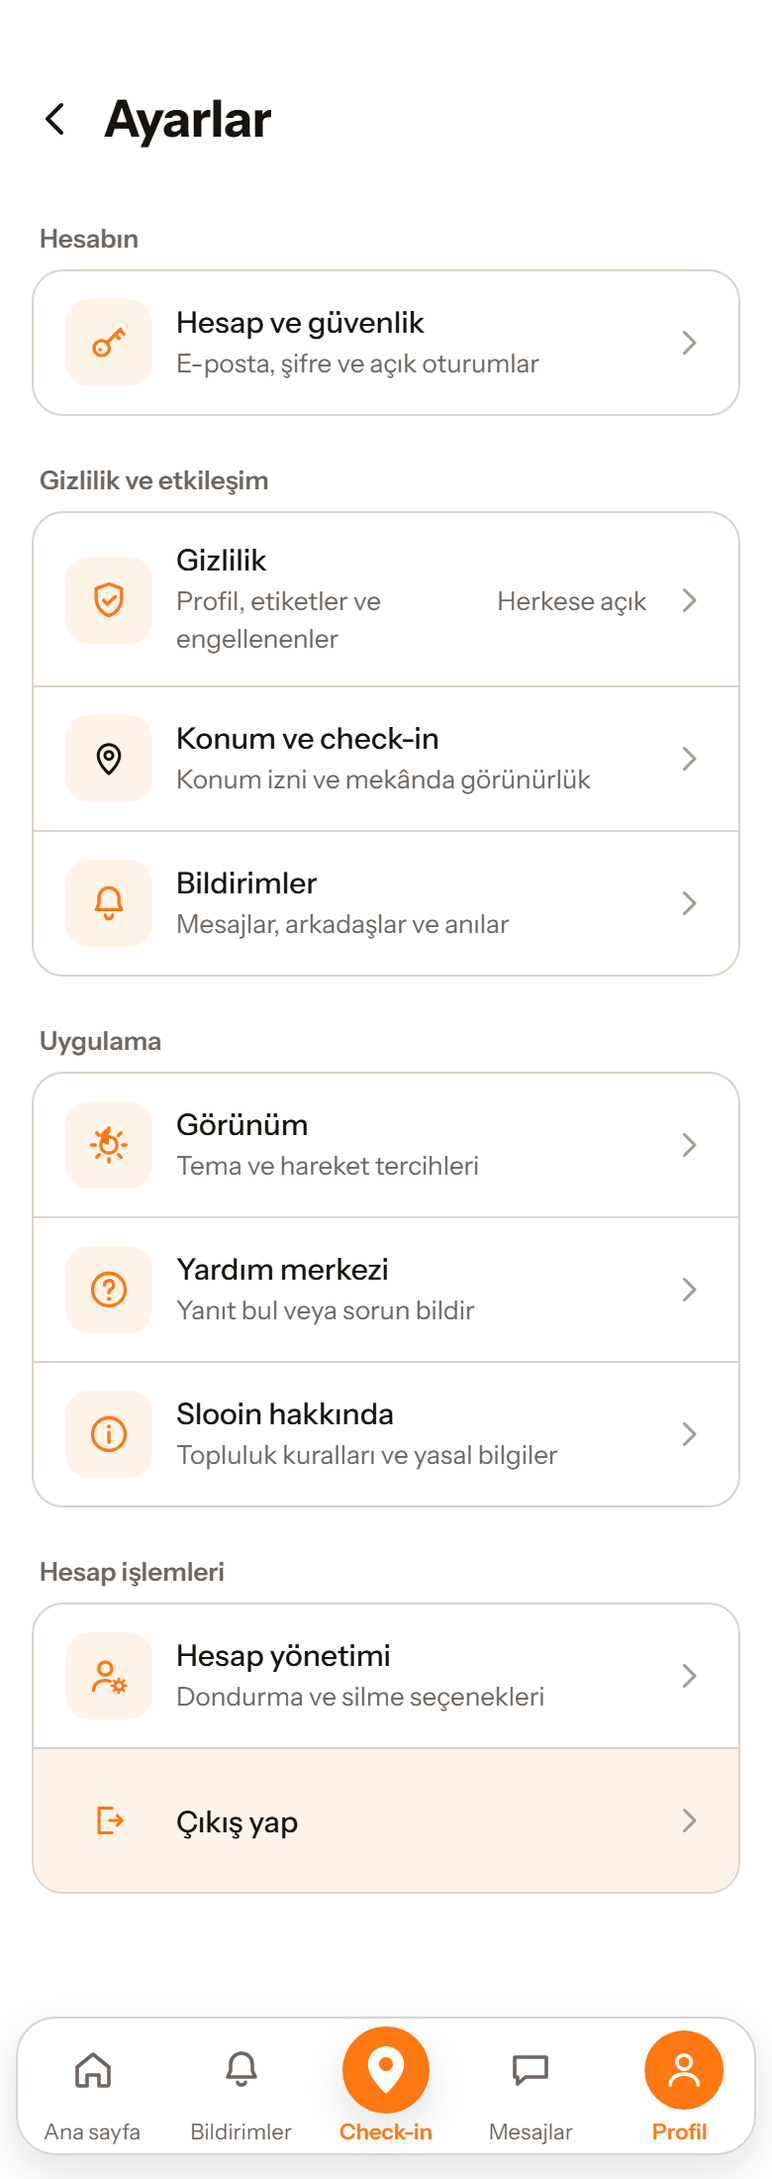
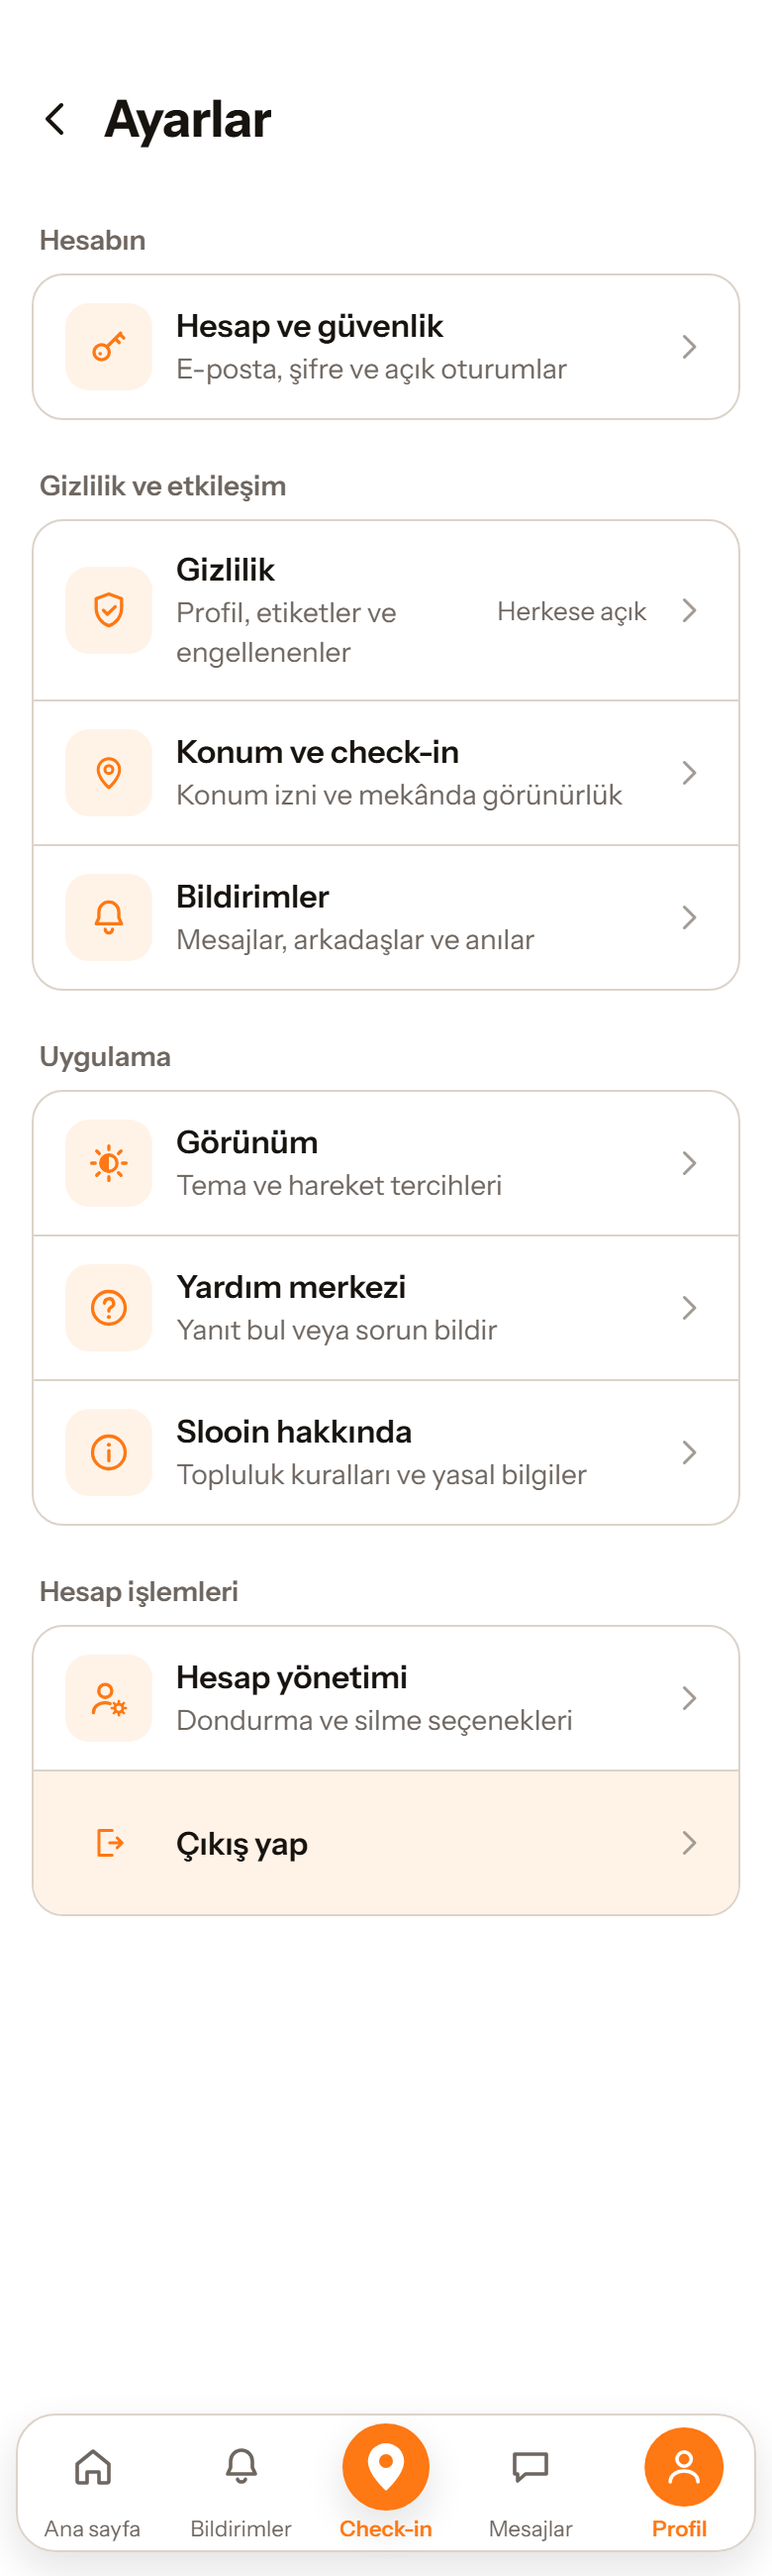
fix(ayarlar): satir yazilari belirgin (600/16, aciklama 14), konum ikonu turuncu, gorunum ikonunun kirik yayi duzeldi
Claude-Session: https://claude.ai/code/session_01PXDmchtcJGoqrZbUAhU85z

diff --git a/mobil/src/tasarim/Liste.tsx b/mobil/src/tasarim/Liste.tsx
@@ -163,9 +163,13 @@ const stilleriYap = (renk: Renk) => StyleSheet.create({
   metinAlani: { flex: 1 },
 
   bolum: { marginTop: bosluk.xl },
+  // 2026-09-19 (kullanicinin istegi "yazilar biraz daha belirgin"):
+  // bolum basligi 13 -> 14, satir etiketi 500/15 -> 600/16, aciklama
+  // 13 -> 14. Satir bileseni butun ayar ekranlarinda ortak; hepsi
+  // birlikte degisti.
   bolumBasligi: {
     fontFamily: yazi.govdeKalin,
-    fontSize: olcek.kucuk,
+    fontSize: 14,
     color: renk.metinIkincil,
     marginBottom: bosluk.s,
     marginLeft: bosluk.xs,
@@ -194,8 +198,8 @@ const stilleriYap = (renk: Renk) => StyleSheet.create({
   ikon: { minWidth: 22, alignItems: 'center', justifyContent: 'center' },
   etiket: {
     flex: 1,
-    fontFamily: yazi.govdeOrta,
-    fontSize: olcek.govde,
+    fontFamily: yazi.govdeKalin,
+    fontSize: 16,
     color: renk.metin,
   },
   etiketSecili: { fontFamily: yazi.govdeKalin },
@@ -209,8 +213,8 @@ const stilleriYap = (renk: Renk) => StyleSheet.create({
   secenekOrta: { flex: 1 },
   aciklama: {
     fontFamily: yazi.govde,
-    fontSize: olcek.kucuk,
-    lineHeight: 19,
+    fontSize: 14,
+    lineHeight: 20,
     color: renk.metinIkincil,
     marginTop: 2,
   },

diff --git a/mobil/src/tasarim/ayar-ikonlari.tsx b/mobil/src/tasarim/ayar-ikonlari.tsx
@@ -65,18 +65,22 @@ export const EngelIkonu = () => {
 }
 
 /** Konum ignesi - "oturdugum bolge" ayari (2026-09-18). */
-export const KonumIkonu = () => {
+// Ayarlar hub'inda seftali kutu icinde duruyor; oradaki diger ikonlar
+// gibi TURUNCU (2026-09-19: tek siyah ikon o kalmisti). Baska yerde
+// koyu istenirse `renk` verilir.
+export const KonumIkonu = ({ renk: verilen }: { renk?: string } = {}) => {
   const renk = useRenk()
+  const c = verilen ?? renk.turuncu
   return govde(
     <>
       <Path
         d="M12 21s-6.5-5.6-6.5-11a6.5 6.5 0 0 1 13 0c0 5.4-6.5 11-6.5 11z"
-        stroke={renk.metin}
+        stroke={c}
         strokeWidth={K}
         fill="none"
         strokeLinejoin="round"
       />
-      <Circle cx={12} cy={10} r={2.4} stroke={renk.metin} strokeWidth={K} fill="none" />
+      <Circle cx={12} cy={10} r={2.4} stroke={c} strokeWidth={K} fill="none" />
     </>
   )
 }

diff --git a/mobil/src/tasarim/uygulama-ikonlari.tsx b/mobil/src/tasarim/uygulama-ikonlari.tsx
@@ -21,8 +21,11 @@ export function GunesAyIkonu({ boyut = 22, renk }: Props) {
   const c = useC(renk)
   return (
     <Svg width={boyut} height={boyut} viewBox="0 0 24 24">
+      {/* Yarisi dolu daire: sol yarim ay (koyu), sag yarim gunes (acik).
+          Onceki yay merkezden basliyordu ve daireyi kesen bir dilim
+          ciziyordu - ikon kirik gorunuyordu (2026-09-19). */}
       <Circle cx={12} cy={12} r={4.5} fill="none" stroke={c} strokeWidth={1.8} />
-      <Path d="M12 12a4.5 4.5 0 0 1 0-9" fill={c} stroke="none" />
+      <Path d="M12 7.5a4.5 4.5 0 0 0 0 9z" fill={c} stroke="none" />
       <Path
         d="M12 2.5v2M12 19.5v2M2.5 12h2M19.5 12h2M5.3 5.3l1.4 1.4M17.3 17.3l1.4 1.4M5.3 18.7l1.4-1.4M17.3 6.7l1.4-1.4"
         stroke={c}

diff --git a/CLAUDE.md b/CLAUDE.md
@@ -622,6 +622,15 @@ sessizi 22-08 yerel), yeni olay `ani_hatirlatma` ("Bir yil once bugun:
 
 Jest 81 paket / 1064 test, tsc temiz. Yayin: web `slooin--7vsyt8lbxi`,
 OTA grup `b376cb33-c05d-453b-83e4-36ab705ddfb3`.
+- **DUZELTME 2 (2026-09-19, kullanicinin istegi "yazilar biraz daha
+  belirgin, iki ikonda sorun var"):** `Liste.tsx` ortak: bolum basligi
+  14, satir etiketi 600/16 (500/15'ti), aciklama 14/20 - butun ayar
+  ekranlari birlikte. Ikonlar: `KonumIkonu` hub'da tek siyah ikondu
+  (renk.metin) -> varsayilan turuncu (`renk` prop'u ile ezilebilir);
+  `GunesAyIkonu` yarim dolu daire yayi MERKEZDEN basliyordu, kirik bir
+  dilim ciziyordu -> `M12 7.5a4.5 4.5 0 0 0 0 9z`. Goruntu
+  `tasarim/ayar-hub.png`. OTA grup `6f91cb9a-05fe-43e2-a22f-b6f8394e04c9`,
+  web guncel.
 - **DUZELTME (kullanicinin bildirimi "ikonlar yazilar birbirine
   girmis"):** `Liste.tsx` `ikon` kabi `width: 22` SABITTI; 44'luk
   seftali kutular tasip yaziya biniyordu (web goruntusunde fark
